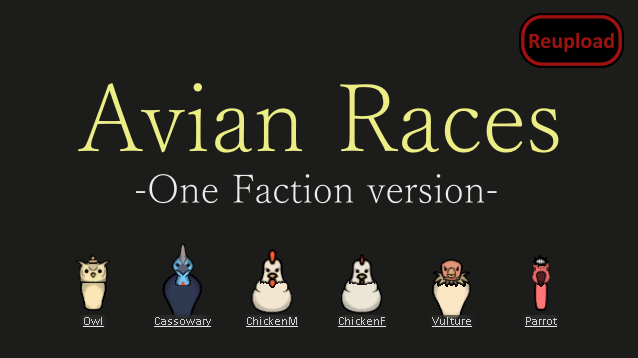
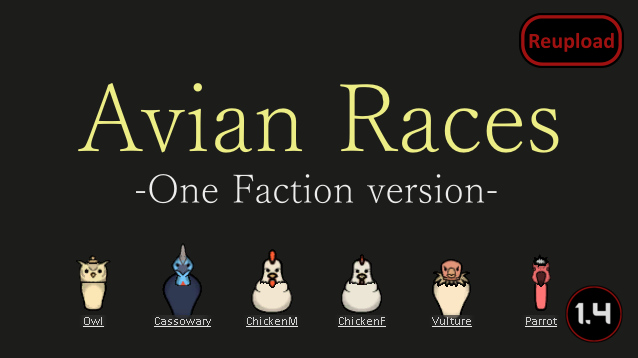
Last update, added end-of-life message

Changed region(s): [[0.8636, 0.7989, 0.9828, 0.9525]]

diff --git a/README.md b/README.md
@@ -5,7 +5,7 @@
 Update of Bozus mod
 https://steamcommunity.com/sharedfiles/filedetails/?id=1582200954
 
-![Image](https://i.imgur.com/pufA0kM.png)
+![Image](https://i.imgur.com/KFjAmff.png)
 
 	
 ![Image](https://i.imgur.com/Z4GOv8H.png)
@@ -46,10 +46,13 @@ Update 1.02
 
 -  See if the the error persists if you just have this mod and its requirements active.
 -  If not, try adding your other mods until it happens again.
--  Post your error-log using https://steamcommunity.com/workshop/filedetails/?id=818773962]HugsLib and command Ctrl+F12
+-  Post your error-log using https://steamcommunity.com/workshop/filedetails/?id=818773962]HugsLib or the standalone https://steamcommunity.com/sharedfiles/filedetails/?id=2873415404]Uploader and command Ctrl+F12
 -  For best support, please use the Discord-channel for error-reporting.
 -  Do not report errors by making a discussion-thread, I get no notification of that.
 -  If you have the solution for a problem, please post it to the GitHub repository.
+-  Use https://github.com/RimSort/RimSort/releases/latest]RimSort to sort your mods
 
 
-https://steamcommunity.com/sharedfiles/filedetails/changelog/2596059913]Last updated 2023-03-30
+
+https://steamcommunity.com/sharedfiles/filedetails/changelog/2596059913]![Image](https://img.shields.io/github/v/release/emipa606/AvianRacesOnlyOneFaction?label=latest%20version&style=plastic&color=9f1111&labelColor=black)
+
